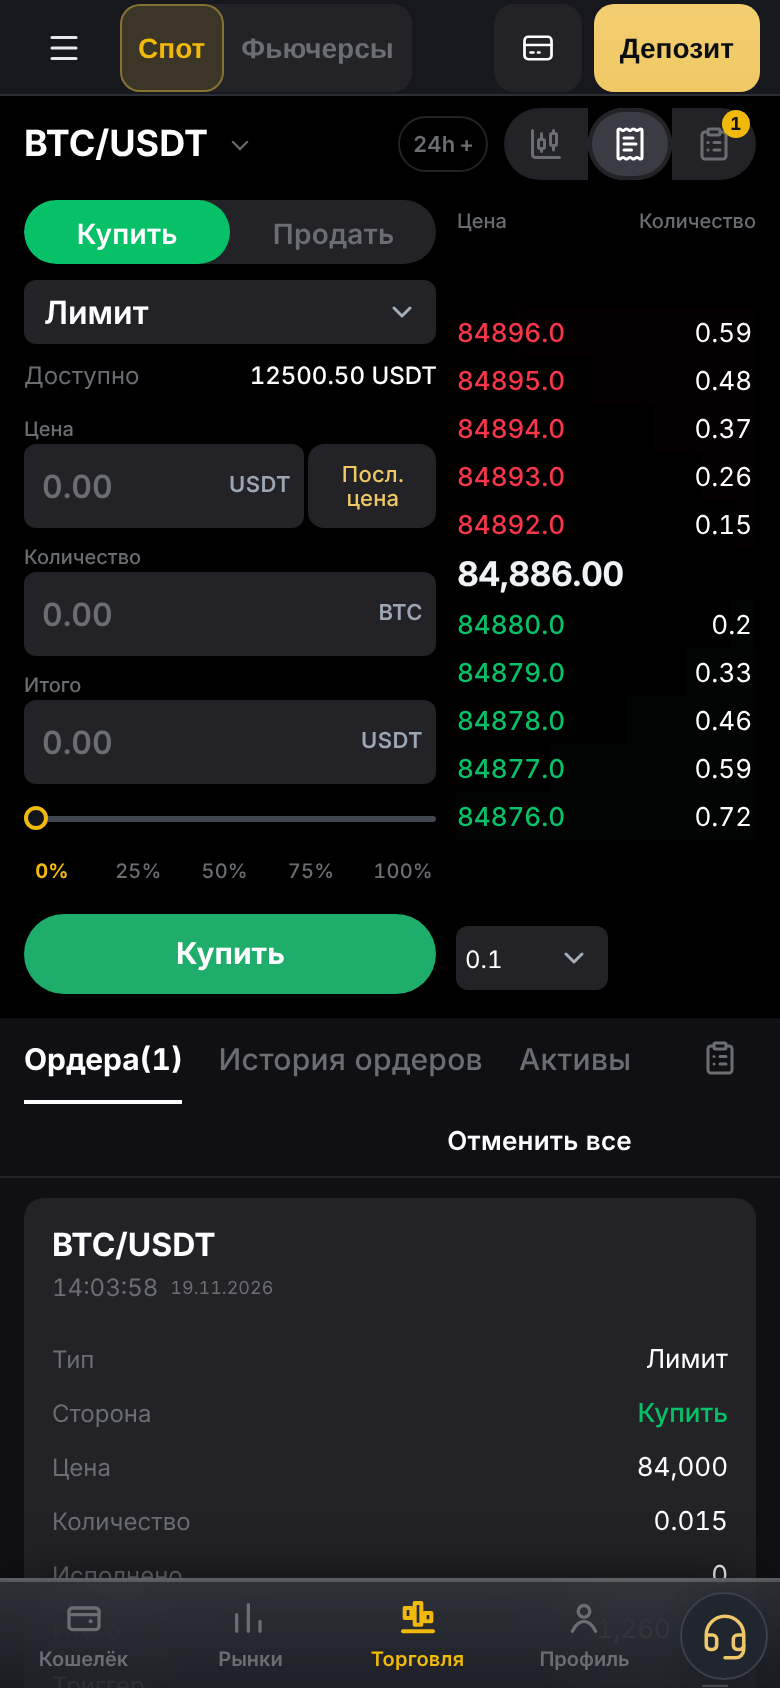
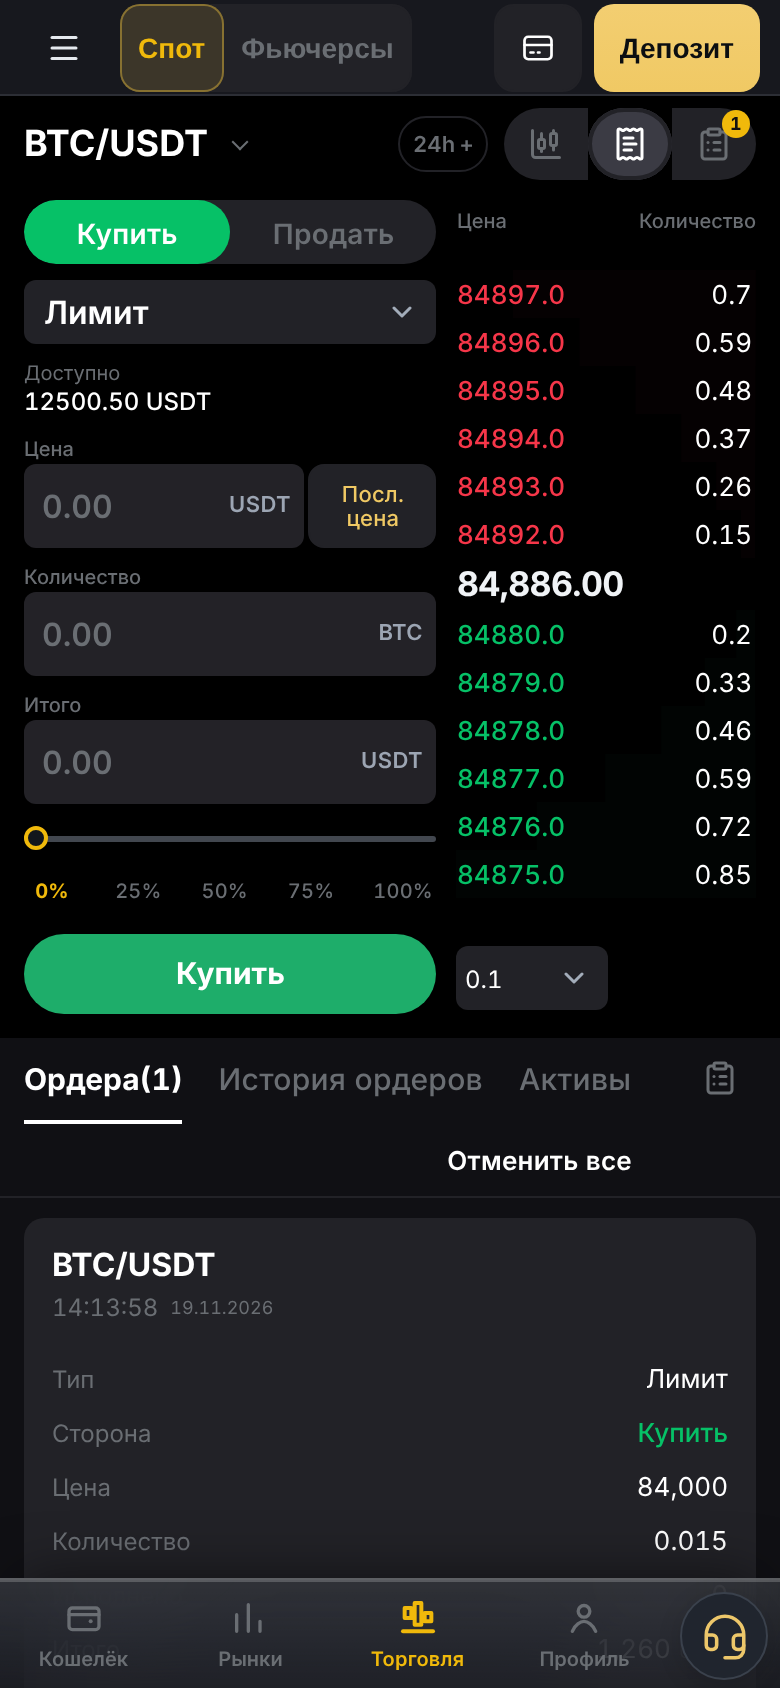
[CF-Pages-Skip] [skip render] spot: the phone «Доступно» row keeps one height whatever the balance
Second CI run on PR #719: private-demo was red one step further.
qa-vta-demo compares the Spot ticket's geometry on VTA/USDT with
BTC/USDT for every side and order type at 390px. On the sell side VTA's
long eight-decimal balance wrapped under «Доступно» (20 -> 32px) and
moved every control below it.

The row is «Доступно» over its figure at a constant 30px; the figure
never wraps. The earlier Spot phone sheet kept the row constant for the
same reason.

qa-spot-mobile-terminal now carries the case (a long balance on the
sell side keeps the row height and the action's position): red before
the fix, 107 passed after. qa-vta-demo was run here against a
disposable local PostgreSQL 16: exit 0 at 1440 and 390. Also green:
qa-spot-cfd-terminal, qa-vta-presentation, jest frontend/src (311
suites, 5153 passed).

Claude-Session: https://claude.ai/code/session_01EmV3PtJ6NMdZqtPwhuyAXM

diff --git a/frontend/src/pages/trade-terminal/SpotMobileReference.css b/frontend/src/pages/trade-terminal/SpotMobileReference.css
@@ -124,10 +124,13 @@
   :is(#archive-terminal-preview,.trade-terminal).vx-terminal.market-reference.terminal-studio.spot-terminal .terminal[data-mobile-tab=trade] .order-form-content > .slider-container { order:1; }
   :is(#archive-terminal-preview,.trade-terminal).vx-terminal.market-reference.terminal-studio.spot-terminal .terminal[data-mobile-tab=trade] .order-form-content > .submit-btn { order:4; }
   :is(#archive-terminal-preview,.trade-terminal).vx-terminal.market-reference.terminal-studio.spot-terminal .terminal[data-mobile-tab=trade] .order-form-content > .info-section { order:5; }
+  /* «Доступно» over its figure, always two short lines: the row is the same height whatever the balance's length, so a
+     long eight-decimal balance on the sell side never moves the ticket (qa-vta-demo compares the two sides). */
   :is(#archive-terminal-preview,.trade-terminal).vx-terminal.market-reference.terminal-studio.spot-terminal .terminal[data-mobile-tab=trade] .available-balance {
-    display:flex !important; flex-direction:row !important; flex-wrap:wrap; align-items:baseline; justify-content:space-between; gap:0 6px; width:100%; min-height:20px; padding:0 !important; border:0 !important; background:transparent !important; font-size:12px; line-height:16px;
+    display:flex !important; flex-direction:column !important; flex-wrap:nowrap !important; align-items:flex-start !important; justify-content:flex-start; gap:0 !important; width:100%;
+    height:30px; min-height:30px !important; padding:0 !important; border:0 !important; background:transparent !important; font-size:10px; line-height:12px; color:var(--text-tertiary,#6a6e73);
   }
-  :is(#archive-terminal-preview,.trade-terminal).vx-terminal.market-reference.terminal-studio.spot-terminal .terminal[data-mobile-tab=trade] .available-balance .amount { margin-left:auto; font-size:12px; font-weight:500; white-space:nowrap; }
+  :is(#archive-terminal-preview,.trade-terminal).vx-terminal.market-reference.terminal-studio.spot-terminal .terminal[data-mobile-tab=trade] .available-balance .amount { margin:0; max-width:100%; font-size:12px; line-height:18px; font-weight:500; color:var(--text-primary,#fff); white-space:nowrap; overflow:hidden; text-overflow:ellipsis; }
   :is(#archive-terminal-preview,.trade-terminal).vx-terminal.market-reference.terminal-studio.spot-terminal .terminal[data-mobile-tab=trade] :is(.order-summary,.available-balance) { box-shadow:none !important; outline:0 !important; }
   :is(#archive-terminal-preview,.trade-terminal).vx-terminal.market-reference.terminal-studio.spot-terminal .terminal[data-mobile-tab=trade] .form-group { gap:2px; }
   :is(#archive-terminal-preview,.trade-terminal).vx-terminal.market-reference.terminal-studio.spot-terminal .terminal[data-mobile-tab=trade] .input-group { min-height:40px; border:0; border-radius:var(--sm-radius); background:var(--sm-field); }

diff --git a/docs/AI_HANDOFF.md b/docs/AI_HANDOFF.md
@@ -7880,3 +7880,4 @@ Implementation `346fa509` projects the bound account's public name in strategyOw
   - `isolated-qa` (#691 viewer boundary) fills every text input of the Futures ticket; on a phone one size field is behind the unit swap. Two lines in `qa-order-ticket-691.cjs` bring the other field forward before filling it.
   - `spot-7d` and `publication-and-layout` died in `playwright install --with-deps` on Ubuntu mirror 503s before any test ran — not this PR's. The fix that already exists for exactly these two workflows on PR #696 (Codex's `verify-ci-browser.cjs` in `download` mode on `ubuntu-24.04`, green there) is ported here unchanged; it becomes a no-op once the base carries it.
 - Reproduced red and then green here: `qa-native-demo-browser.cjs` with `NATIVE_QA_PNL_ONLY=1`, `qa-large-numbers-browser.cjs`, `qa-order-ticket-691.cjs` (built with the workflow's `VITE_*`), plus the three phone checks (133/0, 103/0, 71/0). `qa-vta-demo.cjs` needs PostgreSQL and was not run here.
+- Second CI run on `45963ca1`: `private-demo` red again, now one step further — `qa-vta-demo.cjs` compares the Spot ticket's geometry on VTA/USDT with BTC/USDT for every side and order type at 390px, and on the sell side VTA's long eight-decimal balance wrapped under «Доступно» (row 20 → 32px), moving everything below it. The row is now «Доступно» over its figure at a constant 30px, as the earlier Spot phone sheet kept it constant for the same reason. `qa-spot-mobile-terminal.cjs` carries the case (a long balance on the sell side: same row height, same action position; red before the fix, green after — 107/0). `qa-vta-demo.cjs` itself was run here against a disposable local PostgreSQL 16 after `prisma migrate deploy`: exit 0 at 1440 and 390.
